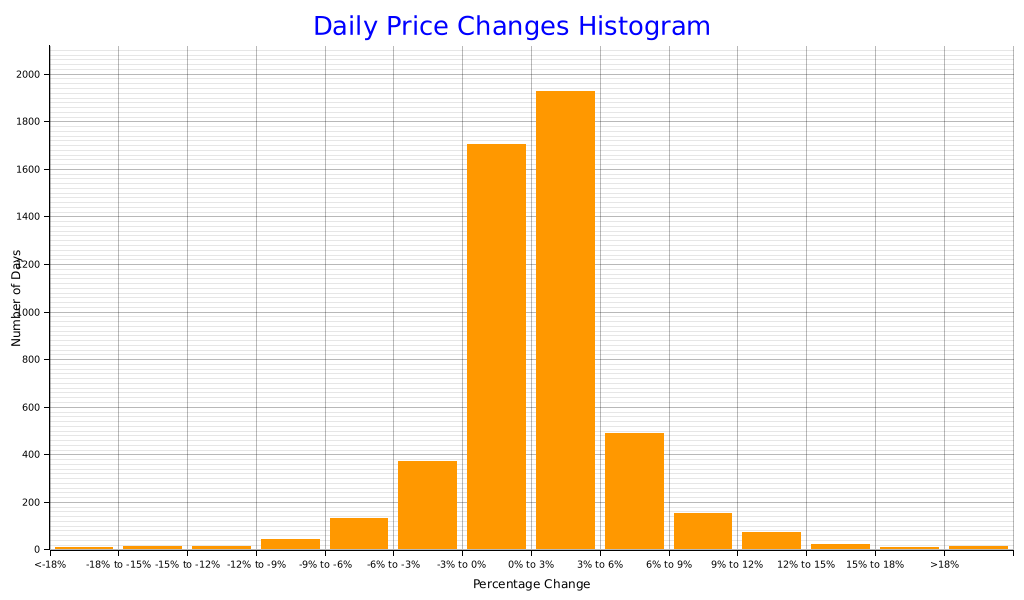
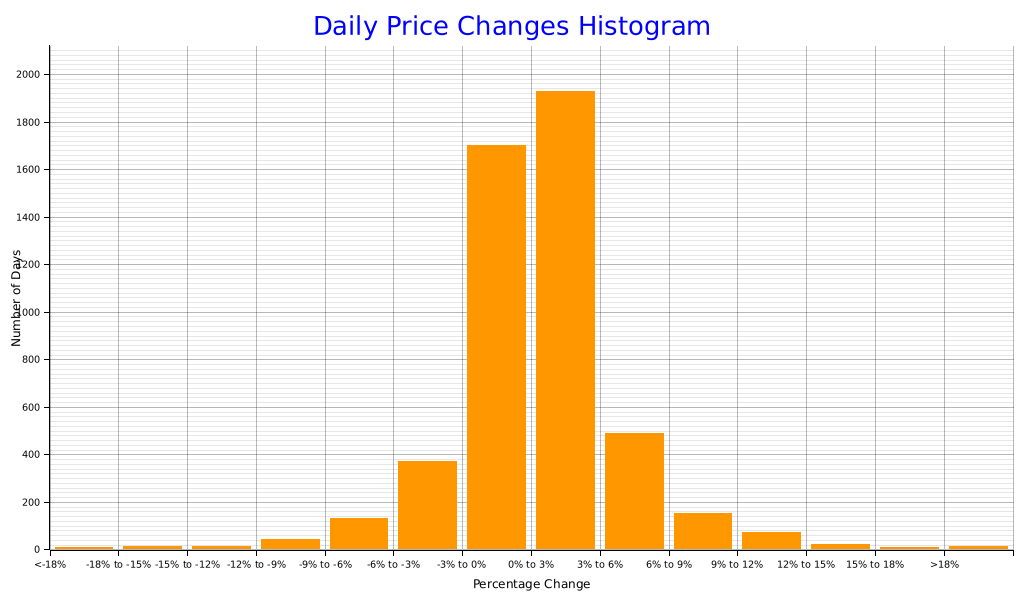
deploy: 5c9706391ed4a10d909b6f24814ac8746e87cbec

diff --git a/index.html b/index.html
@@ -34,7 +34,7 @@
           <td>123,091.60</td>
           <td>74,436.67</td>
           <td></td>
-          <td>9,324,098,224,128.0</td>
+          <td>9,324,069,912,576.0</td>
         </tr>
         <tr>
           <td class='yearly-summary-year'>2024</td>
@@ -186,11 +186,11 @@
         </tr>
         <tr>
           <td>-3% to 0%</td>
-          <td>1703</td>
+          <td>1702</td>
         </tr>
         <tr>
           <td>0% to 3%</td>
-          <td>1926</td>
+          <td>1927</td>
         </tr>
         <tr>
           <td>3% to 6%</td>
@@ -227,7 +227,7 @@
     <br><br>
     <a href='https://github.com/bitcoin-tools/btracker'>Link to the report codebase</a>
     <br><br>
-    This report was last updated at 2025-07-21 21:23:21.489524234 UTC.
+    This report was last updated at 2025-07-21 21:43:44.916254302 UTC.
     <br><br>
     <div class='scrollable-table'>
       <table>
@@ -251,12 +251,12 @@
             <td>117,328.53</td>
             <td>119,605.81</td>
             <td>116,710.33</td>
-            <td>117,167.64</td>
-            <td class='wma-column'>50,226.57</td>
-            <td>53.09 (0.10 %)</td>
-            <td>74,323.84 (173.4 %)</td>
+            <td>117,345.56</td>
+            <td class='wma-column'>50,226.71</td>
+            <td>53.23 (0.10 %)</td>
+            <td>74,501.76 (173.8 %)</td>
             <td>2,895.47 (2.4 %)</td>
-            <td>-133.14 (0.1 %)</td>
+            <td>44.77 (0.0 %)</td>
           </tr>
           <tr>
             <td>2025-07-20</td>
